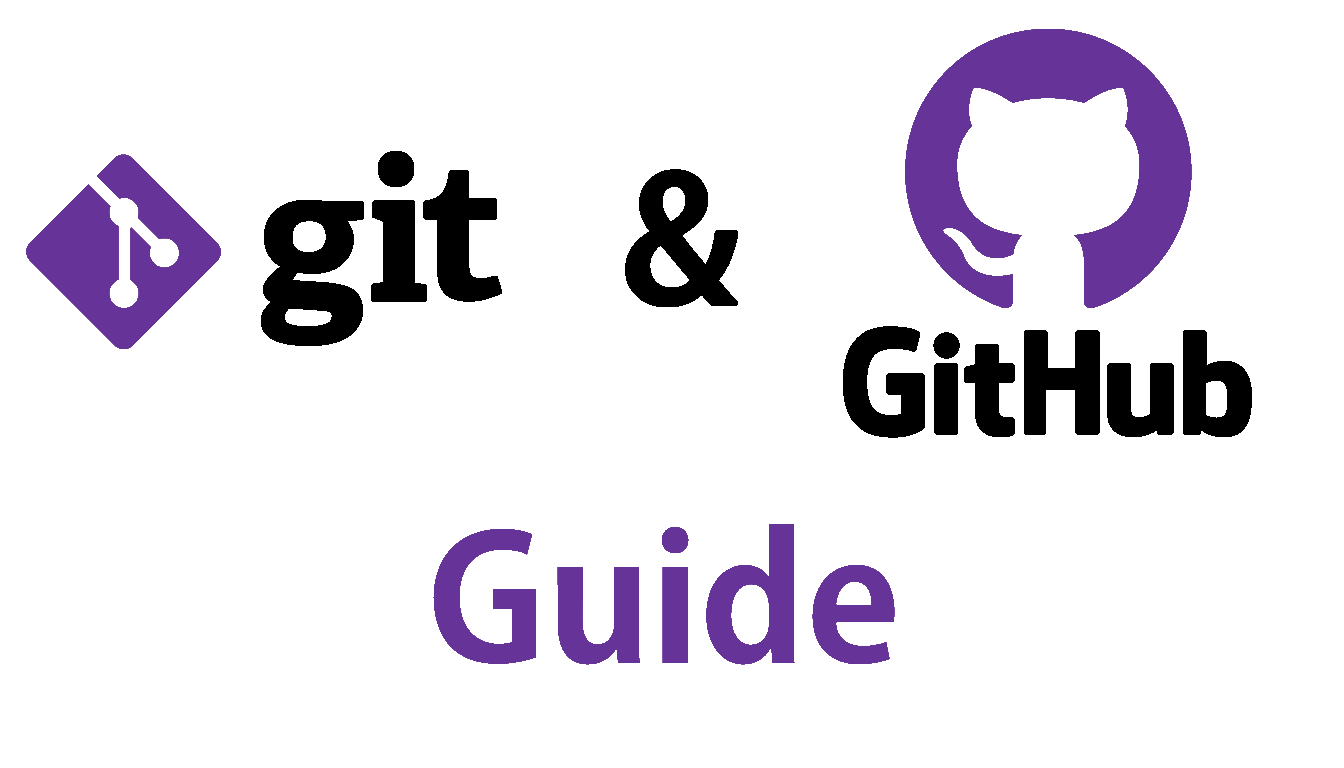
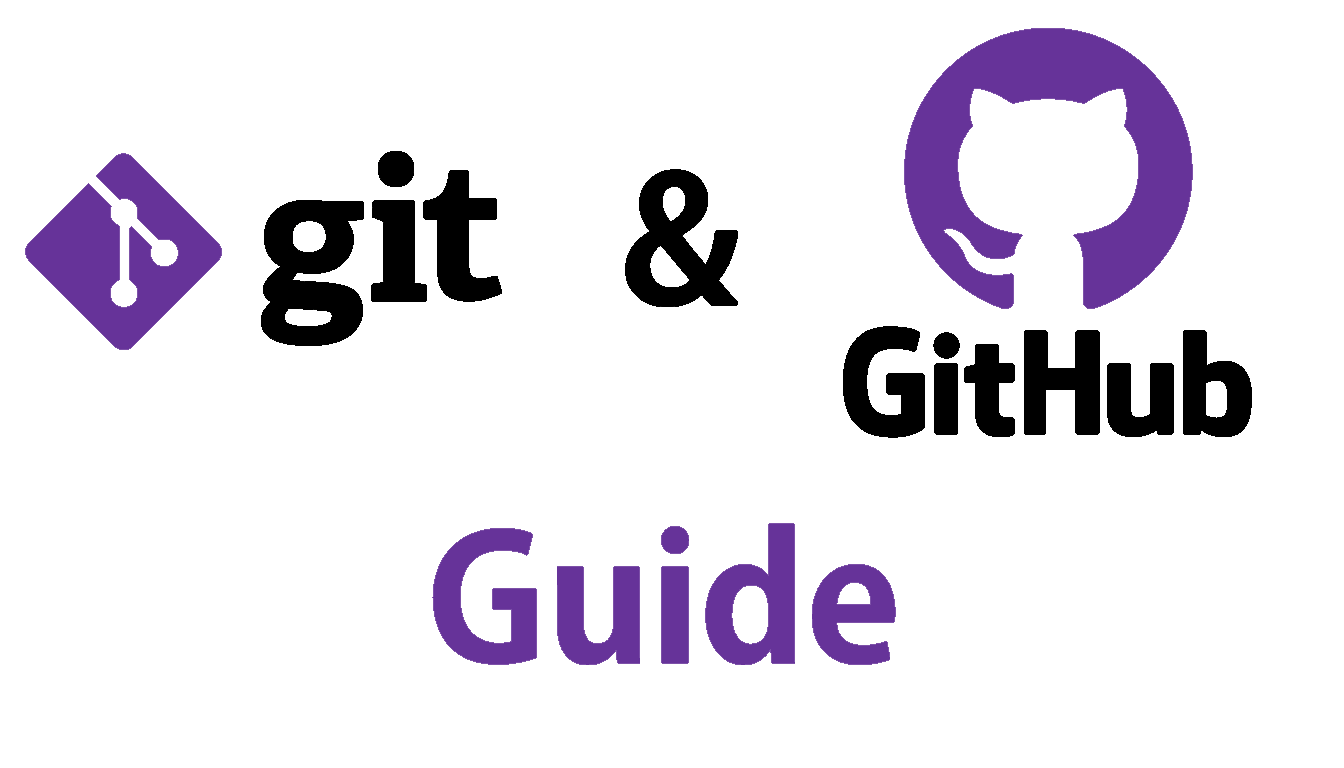
extended git commands p2, optimized intro img for dark theme

diff --git a/README.md b/README.md
@@ -11,7 +11,7 @@
   - [Tracking path changes](#tracking-path-changes)
   - [Staging & Snapshot](#staging--snapshot)
   - [Branches & Merging](#branches--merging)
-  - [Share & Update](#share--update)
+  - [Remote Repositories](#remote-repositories)
   - [Rewrite history](#rewrite-history)
   - [Temporary commits](#temporary-commits)
 - [Git workflow](#git-workflow)
@@ -25,7 +25,7 @@
 
 - `git config --global user.name '[firstname lastname]'` - Set a name for identification. Hint: You can use `-g` flag instead of `--global`
 
-- `git config -g user.email '[valid-email]'` - Set associated email address.
+- `git config -g user.email '[valid_email]'` - Set associated email address.
 
 - `git config -g color.ui auto` - Set automatic command line coloring for Git for easy reviewing.
 
@@ -43,7 +43,7 @@
 
 - `git log --follow [file]` - Show the commits that changed file, even across renames.
 
-- `git diff branchB..branchA` - Show diff of what is in branchA that is not in branchB.
+- `git diff branchB..branchA` - Show difference of what is in branchA that is not in branchB.
 
 - `git show [SHA]` - Show any object in Git in human-readable format.
 
@@ -51,7 +51,7 @@
 
 - `git rm [file]` - Delete the file from project and stage the removal for commit.
 
-- `git mv [existing-path] [new-path]` - Change an existing file path and stage the move.
+- `git mv [existing_path] [new_path]` - Change an existing file path and stage the move.
 
 - `git log --stat -M` - Show all commit logs with indication of any paths that moved.
 
@@ -67,29 +67,38 @@
 
 - `git diff --staged` - Difference of what is staged but not yet committed.
 
-- `git commit -m [commit message]` - Commit your staged content as a new commit snapshot.
+- `git commit -m [commit_message]` - Commit your staged content as a new commit snapshot.
+
+- `git revert [commit]` - Create new commit that undoes all of the changes made in `[commit]`, then
+  apply it to the current branch.
+
+- `git clean -n` - Shows which untracked files would be removed from working directory.
+  Use the `-f` flag in place of the `-n` flag to execute the clean.
 
 ## Branches & Merging
 
-- `git branch` - List your branches. a* will appear next to currently active branch.
+- `git branch` - List your branches. `a*` will appear next to currently active branch.
 
-- `git branch [branch name]` - Create a new branch at the current commit.
+- `git branch [branch_name]` - Create a new branch at the current commit.
 
-- `git checkout [branch name]` - Switch to another branch and check it out into your working directory.
+- `git checkout [branch_name]` - Switch to another branch and check it out into your working directory.
+  Use `-b` flag to create and check out a new branch.
+
+- `git branch -d [branch_name]` - Delete branch.
 
 - `git merge [branch]` - Merge the specified branch's history into the current one.
 
 - `git log` - Show all commits in the current branch's history.
 
-## Share & Update
+## Remote Repositories
 
-- `git remote add [alias] [url]` - add a git URL as an alias.
+- `git remote add [remote_alias] [url]` - add a git URL as an alias.
 
-- `git fetch [alias]` - fetch down all the branches from that Git remote.
+- `git fetch [remote_alias]` - fetch down all the branches from that Git remote.
 
-- `git merge [alias]/[branch]` - Merge a remote branch into your current branch to bring it up to date.
+- `git merge [remote_alias]/[branch]` - Merge a remote branch into your current branch to bring it up to date.
 
-- `git push [alias] [branch]` - Transmit local branch commits to the remote repository branch.
+- `git push [remote_alias] [branch]` - Transmit local branch commits to the remote repository branch.
 
 - `git push --force` - Overwrite remote repository with local working directory.
 
@@ -97,11 +106,16 @@
 
 ## Rewrite history
 
+- `git commit --amend` - Replace the last commit with staged changes and last commit combined. Use with
+  nothing staged to edit commit's message.
+
 - `git rebase [branch]` - Apply any commits of current branch ahead of specified one.
 
 - `git reset --hard [commit]` - Clear staging area, rewrite working tree from specified commit.
 
 - `git rm --cached [file]` - Stop tracking specified file.
+
+- `git reflog` - Show a log of changes to the local repository's HEAD. Add `--all` to show all refs.
 
 ## Temporary commits
 
